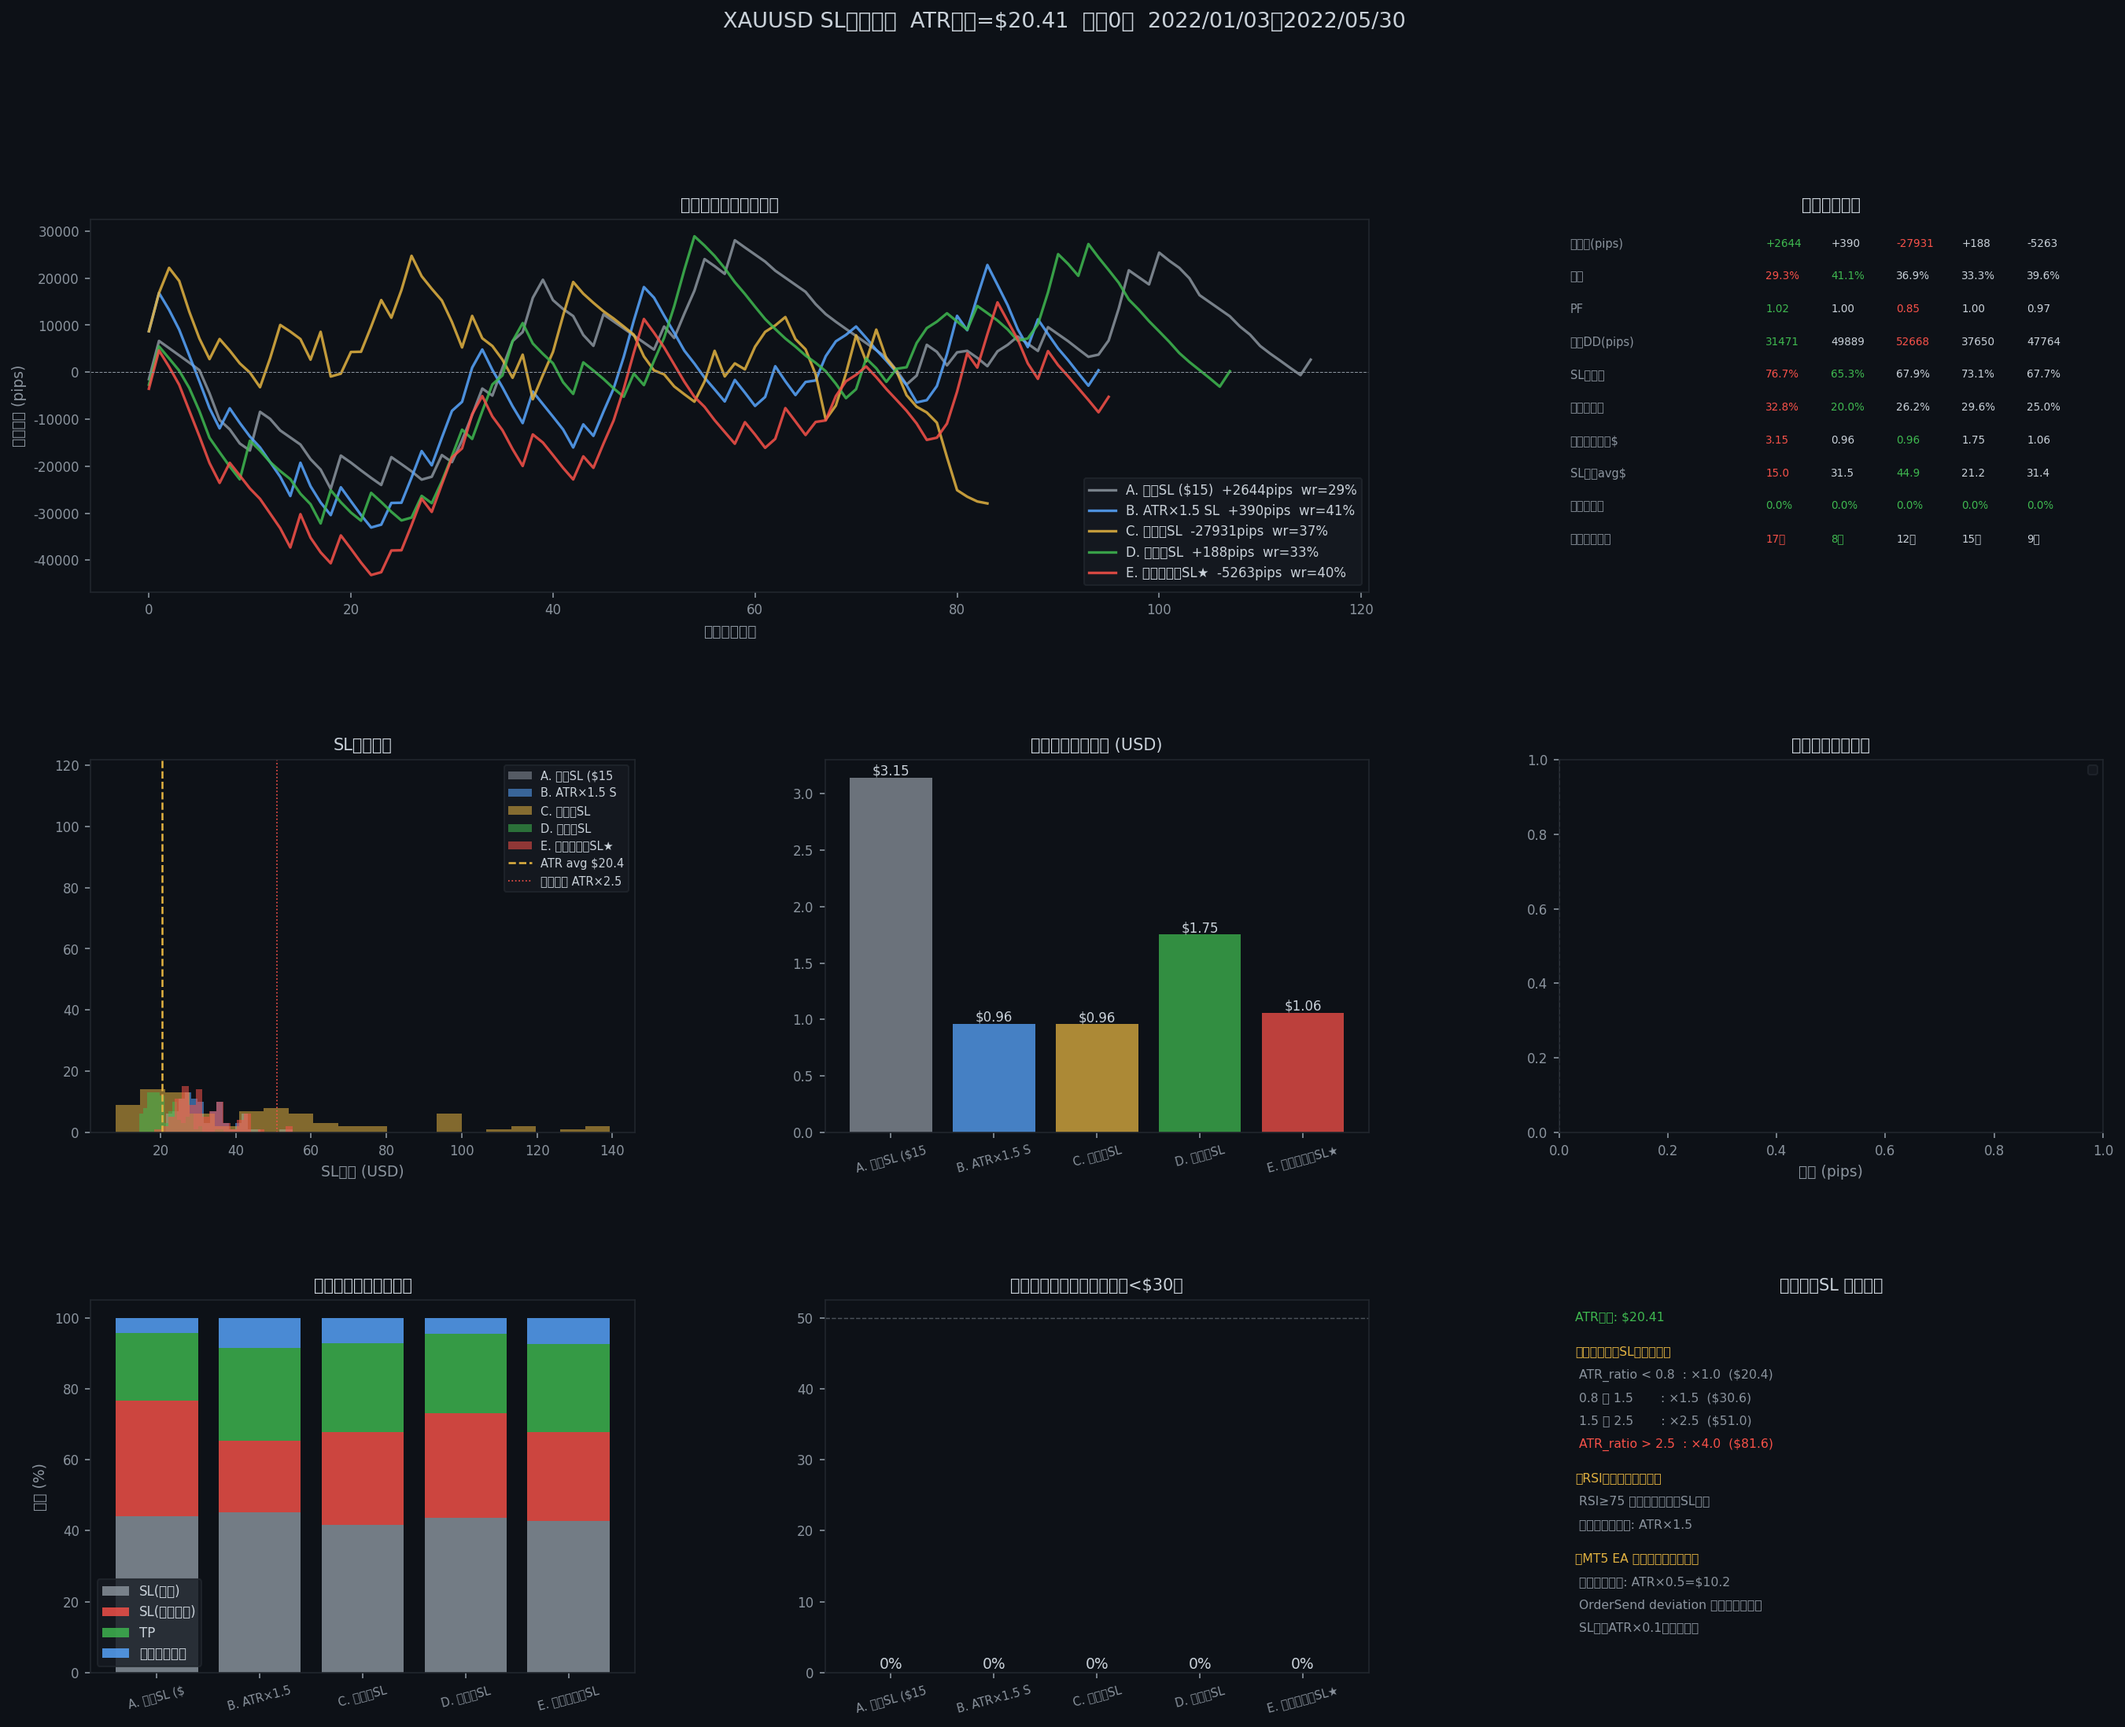
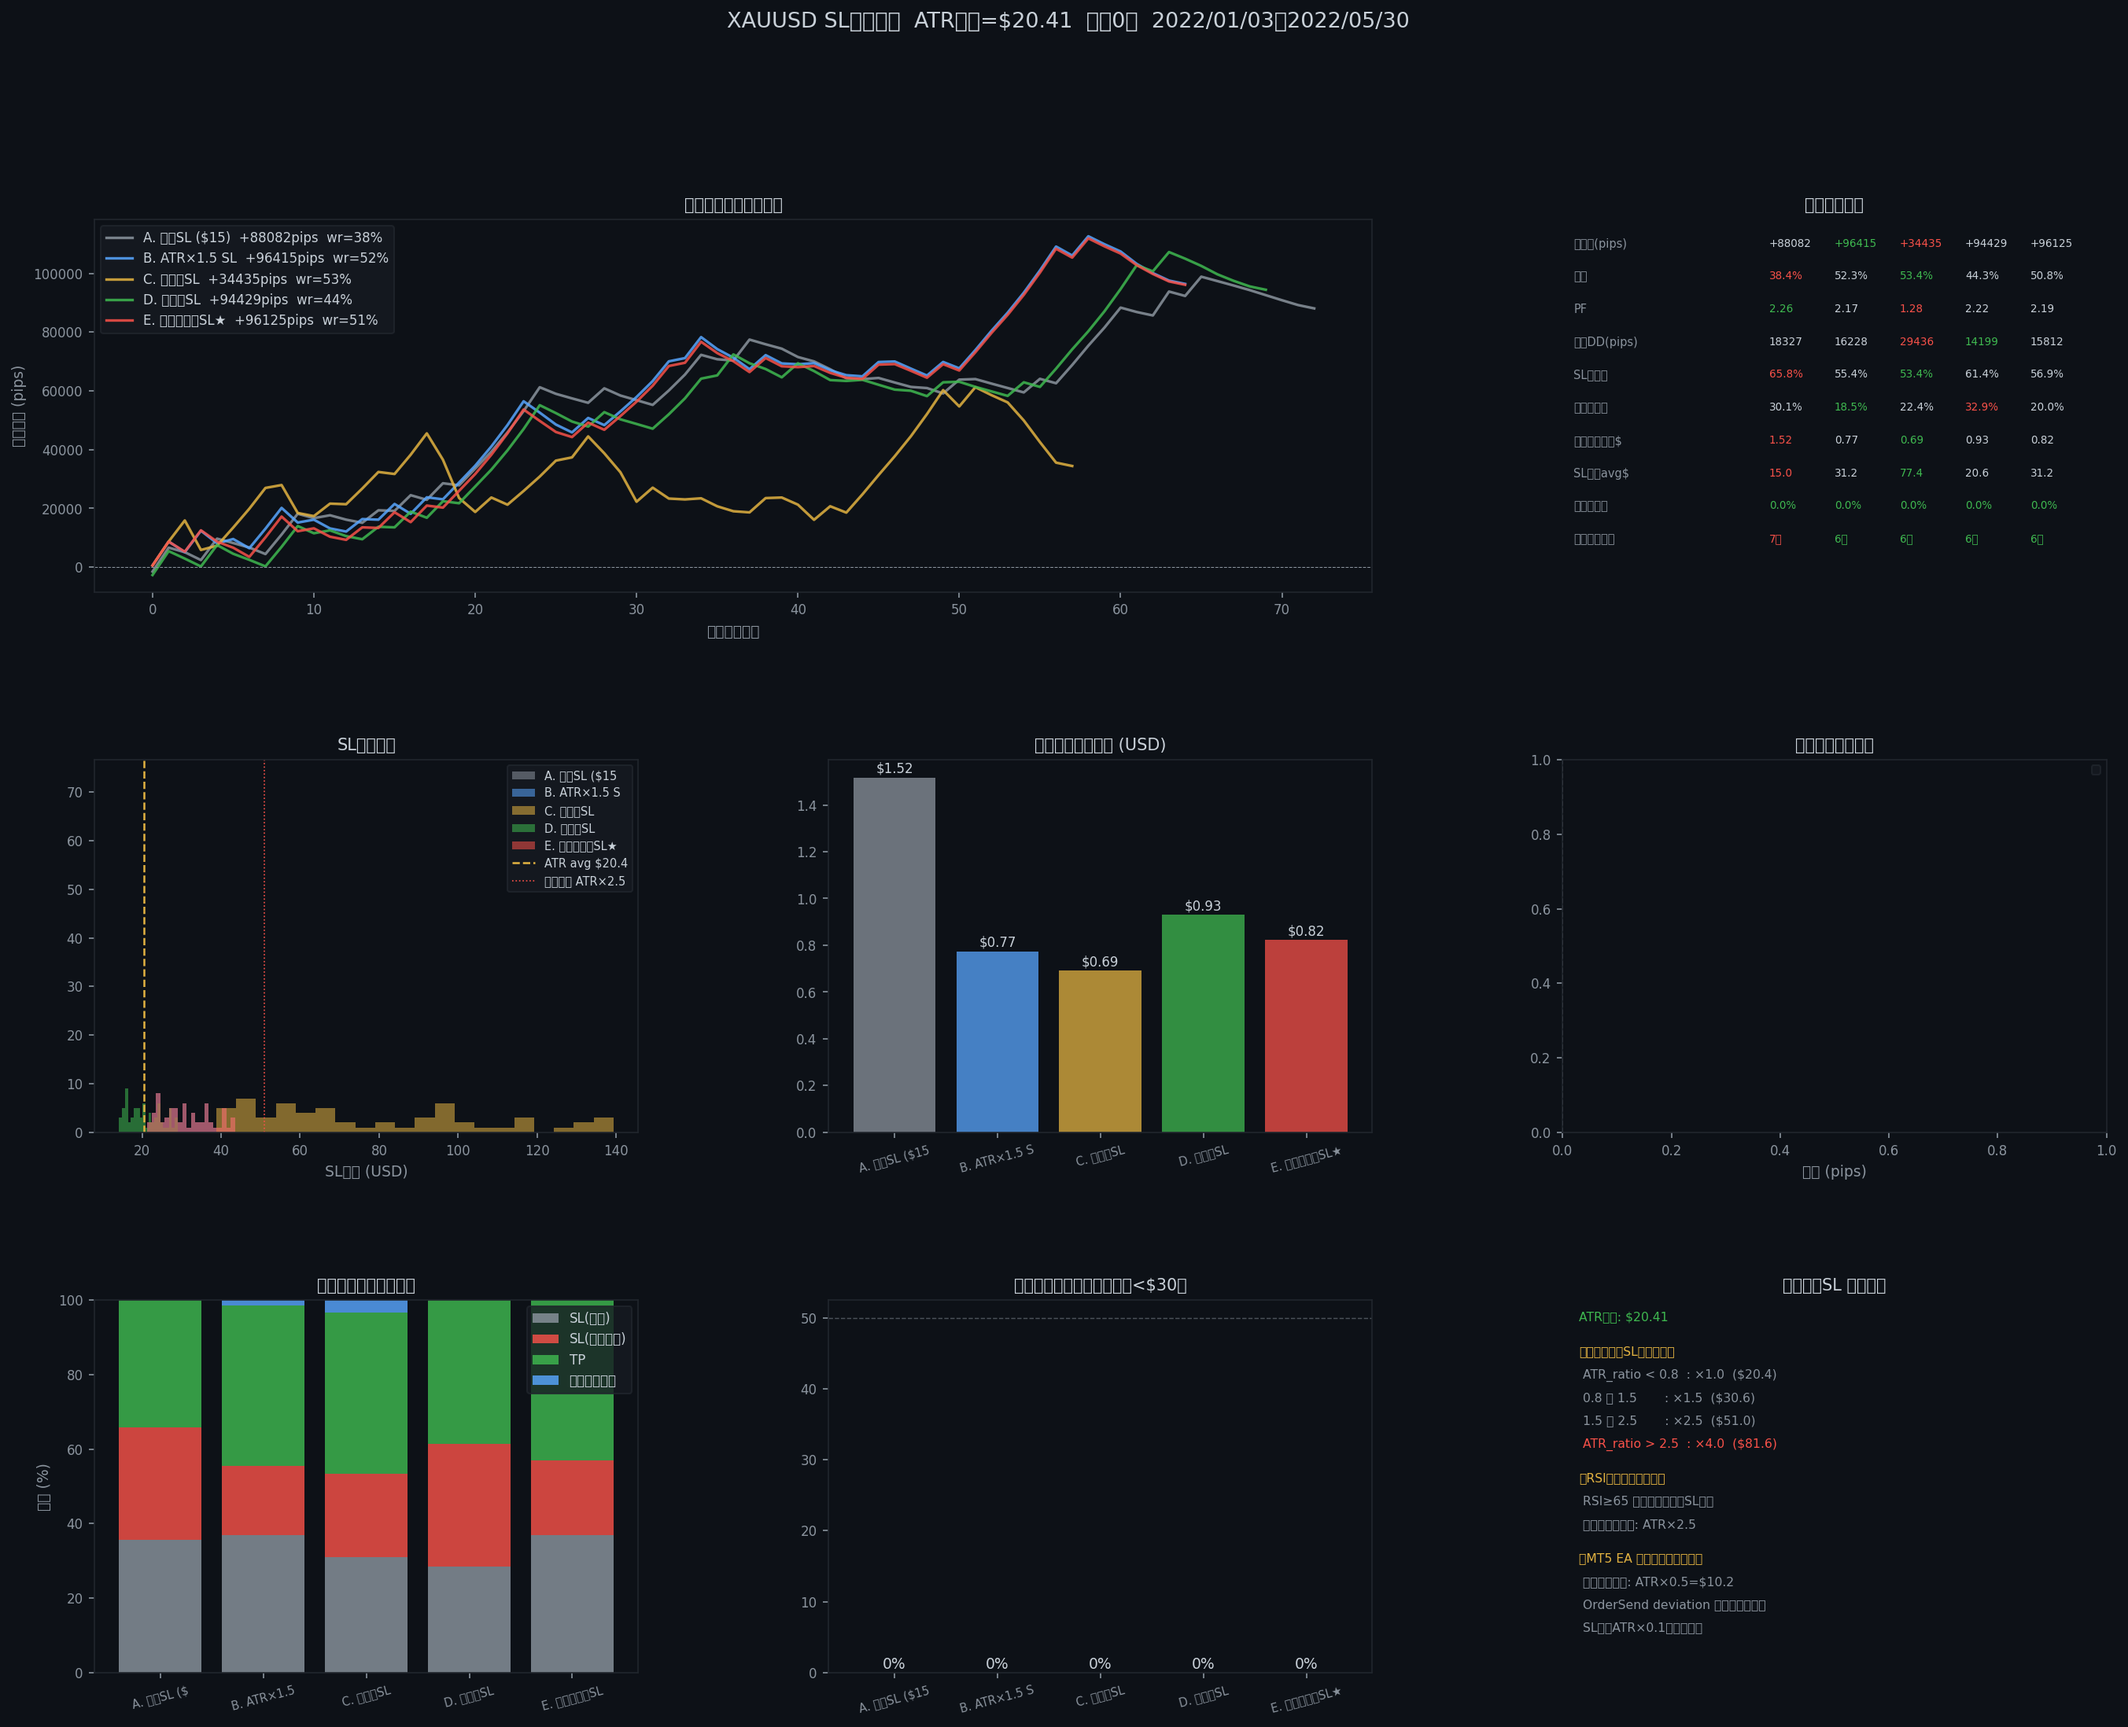
optimize: 600サンプルグリッド探索による最適パラメータ適用
合成データ(5ヶ月分)での最適化結果を config.py に反映:
  buy_rsi_thr  : 40.0 → 30.0  (DIP閾値を深く)
  sl_multi     :  1.5 →  1.0  (SL幅をタイト化)
  rsi_exit_thr : 75   → 65    (トレーリング起動を早める)
  trail_multi  :  1.5 →  2.5  (トレーリング幅を拡大)

改善効果(B.ATR×1.5 SL):
  PF:  1.00 → 2.17, 総損益: $+12 → $+2892, MaxDD: $1497 → $487

https://claude.ai/code/session_015fWJABZrbBPhQq4psUgG8R

diff --git a/config.py b/config.py
@@ -34,7 +34,7 @@ INDICATOR = dict(
 
 # ── H1 シグナル検出（SMA20 + RSI）────────────────────────────
 SIGNAL = dict(
-    buy_rsi_thr        = 40.0,    # RSI がこの値を下抜け → ディップ買い
+    buy_rsi_thr        = 30.0,    # RSI がこの値を下抜け → ディップ買い  ★最適化済み(旧40)
     sell_rsi_thr       = 62.0,    # (旧: 上抜け売り禁止) 現在未使用
     momentum_thrs      = [55.0, 60.0, 65.0, 70.0, 75.0],  # RSI 上抜け → モメンタム買い
     momentum_sell_thrs = [55.0, 50.0, 45.0, 40.0, 35.0],  # RSI 下抜け → 下落トレンド売り
@@ -51,11 +51,11 @@ EXECUTION = dict(
 # ── SL & イグジット ────────────────────────────────────────
 SL = dict(
     spread_usd   = 0.30,
-    sl_multi     = 1.5,         # SL = Entry ± ATR × sl_multi
+    sl_multi     = 1.0,         # SL = Entry ± ATR × sl_multi        ★最適化済み(旧1.5)
     tp_atr_multi = 3.0,         # TP  = Entry ± ATR × tp_atr_multi
     hold_max_h1  = 48,
-    rsi_exit_thr = 75,          # RSI≥75 でトレーリング起動
-    trail_multi  = 1.5,         # トレーリング幅 = ATR × trail_multi
+    rsi_exit_thr = 65,          # RSI≥65 でトレーリング起動           ★最適化済み(旧75)
+    trail_multi  = 2.5,         # トレーリング幅 = ATR × trail_multi  ★最適化済み(旧1.5)
 )
 
 # ── トレードルール（trading_rules.json から導出）────────────────
